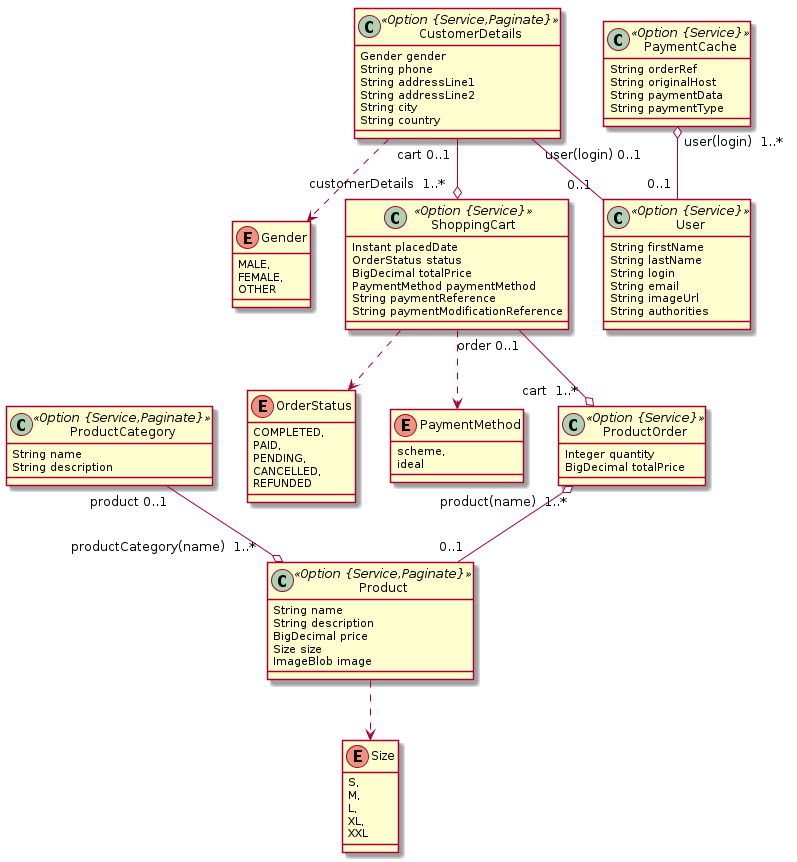
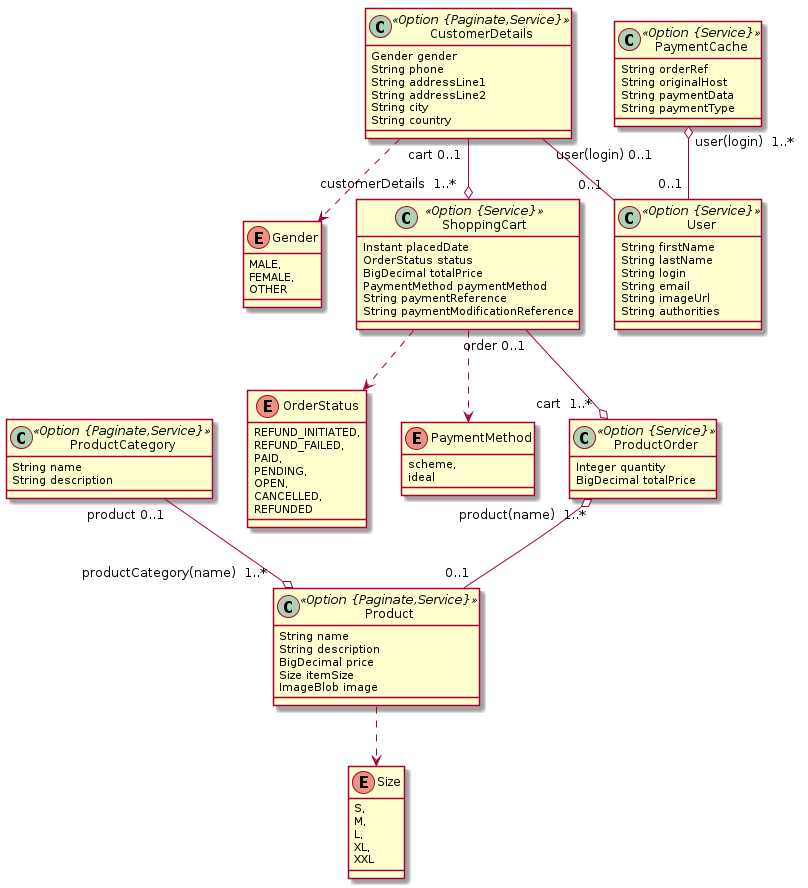
update size field

Changed region(s): [[0.271, 0.0, 0.9937, 0.4223], [0.0, 0.4223, 0.9034, 0.8144], [0.4216, 0.8445, 0.5119, 0.9954]]

diff --git a/src/main/webapp/app/entities/product/product.tsx b/src/main/webapp/app/entities/product/product.tsx
@@ -91,8 +91,8 @@ export const Product = (props: IProductProps) => {
                 <th className="hand" onClick={sort('price')}>
                   Price <FontAwesomeIcon icon="sort" />
                 </th>
-                <th className="hand" onClick={sort('size')}>
-                  Size <FontAwesomeIcon icon="sort" />
+                <th className="hand" onClick={sort('itemSize')}>
+                  Item Size <FontAwesomeIcon icon="sort" />
                 </th>
                 <th className="hand" onClick={sort('image')}>
                   Image <FontAwesomeIcon icon="sort" />
@@ -114,7 +114,7 @@ export const Product = (props: IProductProps) => {
                   <td>{product.name}</td>
                   <td>{product.description}</td>
                   <td>{product.price}</td>
-                  <td>{product.size}</td>
+                  <td>{product.itemSize}</td>
                   <td>
                     {product.image ? (
                       <div>

diff --git a/src/main/webapp/app/entities/product/product-update.tsx b/src/main/webapp/app/entities/product/product-update.tsx
@@ -121,10 +121,16 @@ export const ProductUpdate = (props: IProductUpdateProps) => {
                 />
               </AvGroup>
               <AvGroup>
-                <Label id="sizeLabel" for="product-size">
-                  Size
+                <Label id="itemSizeLabel" for="product-itemSize">
+                  Item Size
                 </Label>
-                <AvInput id="product-size" type="select" className="form-control" name="size" value={(!isNew && productEntity.size) || 'S'}>
+                <AvInput
+                  id="product-itemSize"
+                  type="select"
+                  className="form-control"
+                  name="itemSize"
+                  value={(!isNew && productEntity.itemSize) || 'S'}
+                >
                   <option value="S">S</option>
                   <option value="M">M</option>
                   <option value="L">L</option>

diff --git a/src/main/webapp/app/modules/home/home.tsx b/src/main/webapp/app/modules/home/home.tsx
@@ -121,7 +121,7 @@ export const Home = (props: IHomeProp) => {
                           </div>
                           <p>
                             <small>
-                              Size: <span>{product.size}</span>
+                              Size: <span>{product.itemSize}</span>
                             </small>
                           </p>
                           <div className="d-flex w-100 justify-content-between">

diff --git a/src/main/webapp/app/entities/product/product-detail.tsx b/src/main/webapp/app/entities/product/product-detail.tsx
@@ -39,9 +39,9 @@ export const ProductDetail = (props: IProductDetailProps) => {
           </dt>
           <dd>{productEntity.price}</dd>
           <dt>
-            <span id="size">Size</span>
+            <span id="itemSize">Item Size</span>
           </dt>
-          <dd>{productEntity.size}</dd>
+          <dd>{productEntity.itemSize}</dd>
           <dt>
             <span id="image">Image</span>
           </dt>

diff --git a/src/main/webapp/app/modules/cart/cart.tsx b/src/main/webapp/app/modules/cart/cart.tsx
@@ -50,7 +50,7 @@ export const Cart = (props: ICartProp) => {
                           </div>
                           <div>
                             <small>
-                              Size: <span>{order.product?.size}</span>
+                              Size: <span>{order.product?.itemSize}</span>
                             </small>
                           </div>
                           <p>

diff --git a/src/main/webapp/app/shared/model/product.model.ts b/src/main/webapp/app/shared/model/product.model.ts
@@ -6,7 +6,7 @@ export interface IProduct {
   name?: string;
   description?: string;
   price?: number;
-  size?: Size;
+  itemSize?: Size;
   imageContentType?: string;
   image?: any;
   productCategory?: IProductCategory;

diff --git a/src/test/java/com/adyen/demo/store/web/rest/ProductResourceIT.java b/src/test/java/com/adyen/demo/store/web/rest/ProductResourceIT.java
@@ -46,8 +46,8 @@ public class ProductResourceIT {
     private static final BigDecimal DEFAULT_PRICE = new BigDecimal(0);
     private static final BigDecimal UPDATED_PRICE = new BigDecimal(1);
 
-    private static final Size DEFAULT_SIZE = Size.S;
-    private static final Size UPDATED_SIZE = Size.M;
+    private static final Size DEFAULT_ITEM_SIZE = Size.S;
+    private static final Size UPDATED_ITEM_SIZE = Size.M;
 
     private static final byte[] DEFAULT_IMAGE = TestUtil.createByteArray(1, "0");
     private static final byte[] UPDATED_IMAGE = TestUtil.createByteArray(1, "1");
@@ -79,7 +79,7 @@ public class ProductResourceIT {
             .name(DEFAULT_NAME)
             .description(DEFAULT_DESCRIPTION)
             .price(DEFAULT_PRICE)
-            .size(DEFAULT_SIZE)
+            .itemSize(DEFAULT_ITEM_SIZE)
             .image(DEFAULT_IMAGE)
             .imageContentType(DEFAULT_IMAGE_CONTENT_TYPE);
         // Add required entity
@@ -105,7 +105,7 @@ public class ProductResourceIT {
             .name(UPDATED_NAME)
             .description(UPDATED_DESCRIPTION)
             .price(UPDATED_PRICE)
-            .size(UPDATED_SIZE)
+            .itemSize(UPDATED_ITEM_SIZE)
             .image(UPDATED_IMAGE)
             .imageContentType(UPDATED_IMAGE_CONTENT_TYPE);
         // Add required entity
@@ -143,7 +143,7 @@ public class ProductResourceIT {
         assertThat(testProduct.getName()).isEqualTo(DEFAULT_NAME);
         assertThat(testProduct.getDescription()).isEqualTo(DEFAULT_DESCRIPTION);
         assertThat(testProduct.getPrice()).isEqualTo(DEFAULT_PRICE);
-        assertThat(testProduct.getSize()).isEqualTo(DEFAULT_SIZE);
+        assertThat(testProduct.getItemSize()).isEqualTo(DEFAULT_ITEM_SIZE);
         assertThat(testProduct.getImage()).isEqualTo(DEFAULT_IMAGE);
         assertThat(testProduct.getImageContentType()).isEqualTo(DEFAULT_IMAGE_CONTENT_TYPE);
     }
@@ -208,10 +208,10 @@ public class ProductResourceIT {
 
     @Test
     @Transactional
-    public void checkSizeIsRequired() throws Exception {
+    public void checkItemSizeIsRequired() throws Exception {
         int databaseSizeBeforeTest = productRepository.findAll().size();
         // set the field null
-        product.setSize(null);
+        product.setItemSize(null);
 
         // Create the Product, which fails.
 
@@ -239,7 +239,7 @@ public class ProductResourceIT {
             .andExpect(jsonPath("$.[*].name").value(hasItem(DEFAULT_NAME)))
             .andExpect(jsonPath("$.[*].description").value(hasItem(DEFAULT_DESCRIPTION)))
             .andExpect(jsonPath("$.[*].price").value(hasItem(DEFAULT_PRICE.intValue())))
-            .andExpect(jsonPath("$.[*].size").value(hasItem(DEFAULT_SIZE.toString())))
+            .andExpect(jsonPath("$.[*].itemSize").value(hasItem(DEFAULT_ITEM_SIZE.toString())))
             .andExpect(jsonPath("$.[*].imageContentType").value(hasItem(DEFAULT_IMAGE_CONTENT_TYPE)))
             .andExpect(jsonPath("$.[*].image").value(hasItem(Base64Utils.encodeToString(DEFAULT_IMAGE))));
     }
@@ -258,7 +258,7 @@ public class ProductResourceIT {
             .andExpect(jsonPath("$.name").value(DEFAULT_NAME))
             .andExpect(jsonPath("$.description").value(DEFAULT_DESCRIPTION))
             .andExpect(jsonPath("$.price").value(DEFAULT_PRICE.intValue()))
-            .andExpect(jsonPath("$.size").value(DEFAULT_SIZE.toString()))
+            .andExpect(jsonPath("$.itemSize").value(DEFAULT_ITEM_SIZE.toString()))
             .andExpect(jsonPath("$.imageContentType").value(DEFAULT_IMAGE_CONTENT_TYPE))
             .andExpect(jsonPath("$.image").value(Base64Utils.encodeToString(DEFAULT_IMAGE)));
     }
@@ -286,7 +286,7 @@ public class ProductResourceIT {
             .name(UPDATED_NAME)
             .description(UPDATED_DESCRIPTION)
             .price(UPDATED_PRICE)
-            .size(UPDATED_SIZE)
+            .itemSize(UPDATED_ITEM_SIZE)
             .image(UPDATED_IMAGE)
             .imageContentType(UPDATED_IMAGE_CONTENT_TYPE);
 
@@ -302,7 +302,7 @@ public class ProductResourceIT {
         assertThat(testProduct.getName()).isEqualTo(UPDATED_NAME);
         assertThat(testProduct.getDescription()).isEqualTo(UPDATED_DESCRIPTION);
         assertThat(testProduct.getPrice()).isEqualTo(UPDATED_PRICE);
-        assertThat(testProduct.getSize()).isEqualTo(UPDATED_SIZE);
+        assertThat(testProduct.getItemSize()).isEqualTo(UPDATED_ITEM_SIZE);
         assertThat(testProduct.getImage()).isEqualTo(UPDATED_IMAGE);
         assertThat(testProduct.getImageContentType()).isEqualTo(UPDATED_IMAGE_CONTENT_TYPE);
     }

diff --git a/src/main/java/com/adyen/demo/store/domain/Product.java b/src/main/java/com/adyen/demo/store/domain/Product.java
@@ -42,8 +42,8 @@ public class Product implements Serializable {
 
     @NotNull
     @Enumerated(EnumType.STRING)
-    @Column(name = "size", nullable = false)
-    private Size size;
+    @Column(name = "item_size", nullable = false)
+    private Size itemSize;
 
     @Lob
     @Column(name = "image")
@@ -105,17 +105,17 @@ public class Product implements Serializable {
         this.price = price;
     }
 
-    public Size getSize() {
-        return size;
+    public Size getItemSize() {
+        return itemSize;
     }
 
-    public Product size(Size size) {
-        this.size = size;
+    public Product itemSize(Size itemSize) {
+        this.itemSize = itemSize;
         return this;
     }
 
-    public void setSize(Size size) {
-        this.size = size;
+    public void setItemSize(Size itemSize) {
+        this.itemSize = itemSize;
     }
 
     public byte[] getImage() {
@@ -182,7 +182,7 @@ public class Product implements Serializable {
             ", name='" + getName() + "'" +
             ", description='" + getDescription() + "'" +
             ", price=" + getPrice() +
-            ", size='" + getSize() + "'" +
+            ", itemSize='" + getItemSize() + "'" +
             ", image='" + getImage() + "'" +
             ", imageContentType='" + getImageContentType() + "'" +
             "}";
